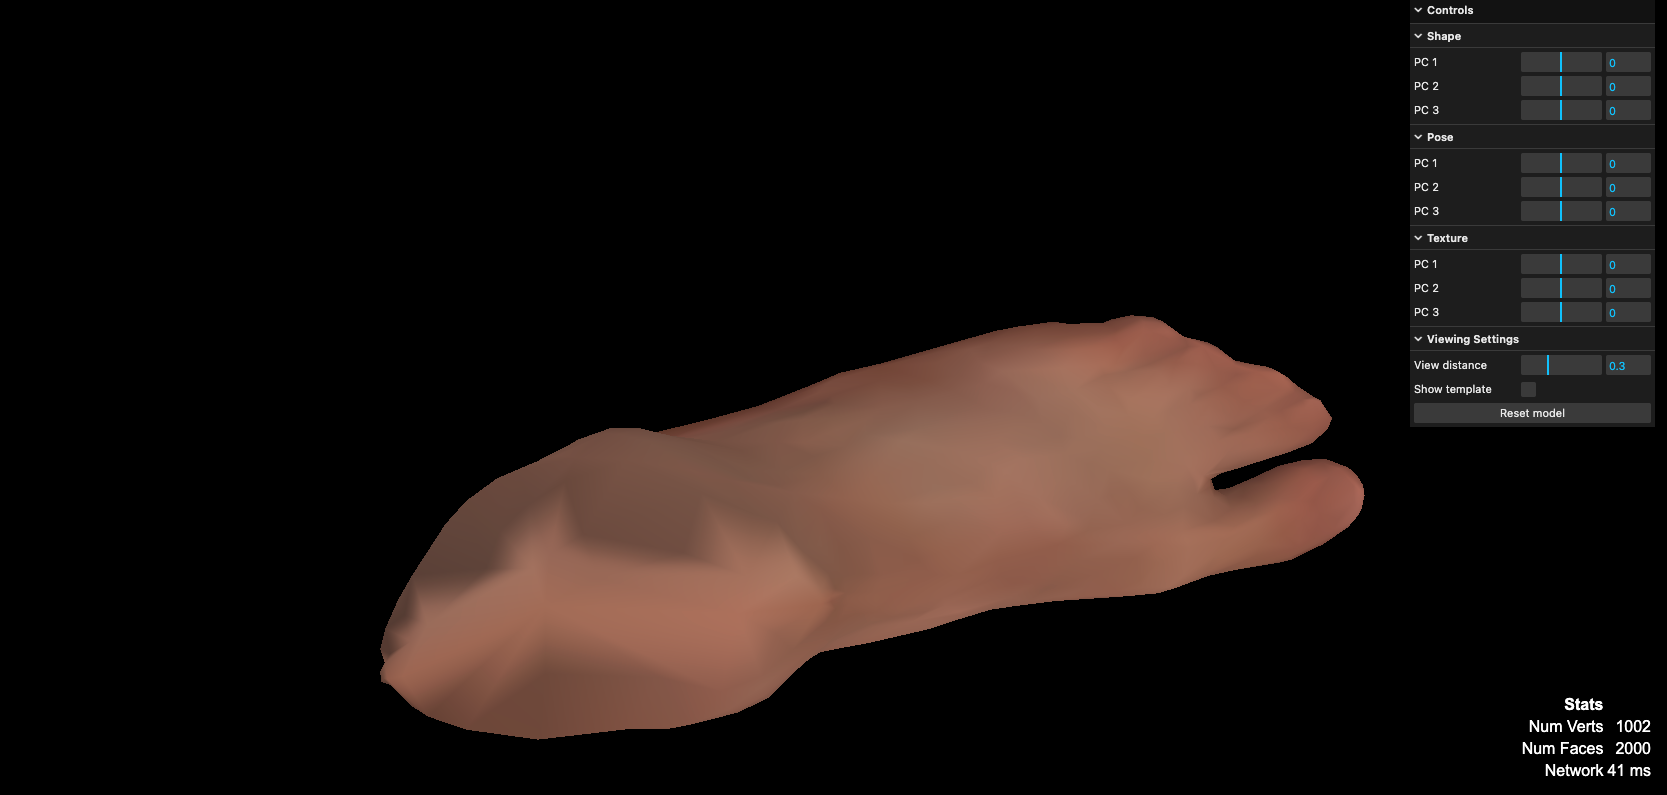
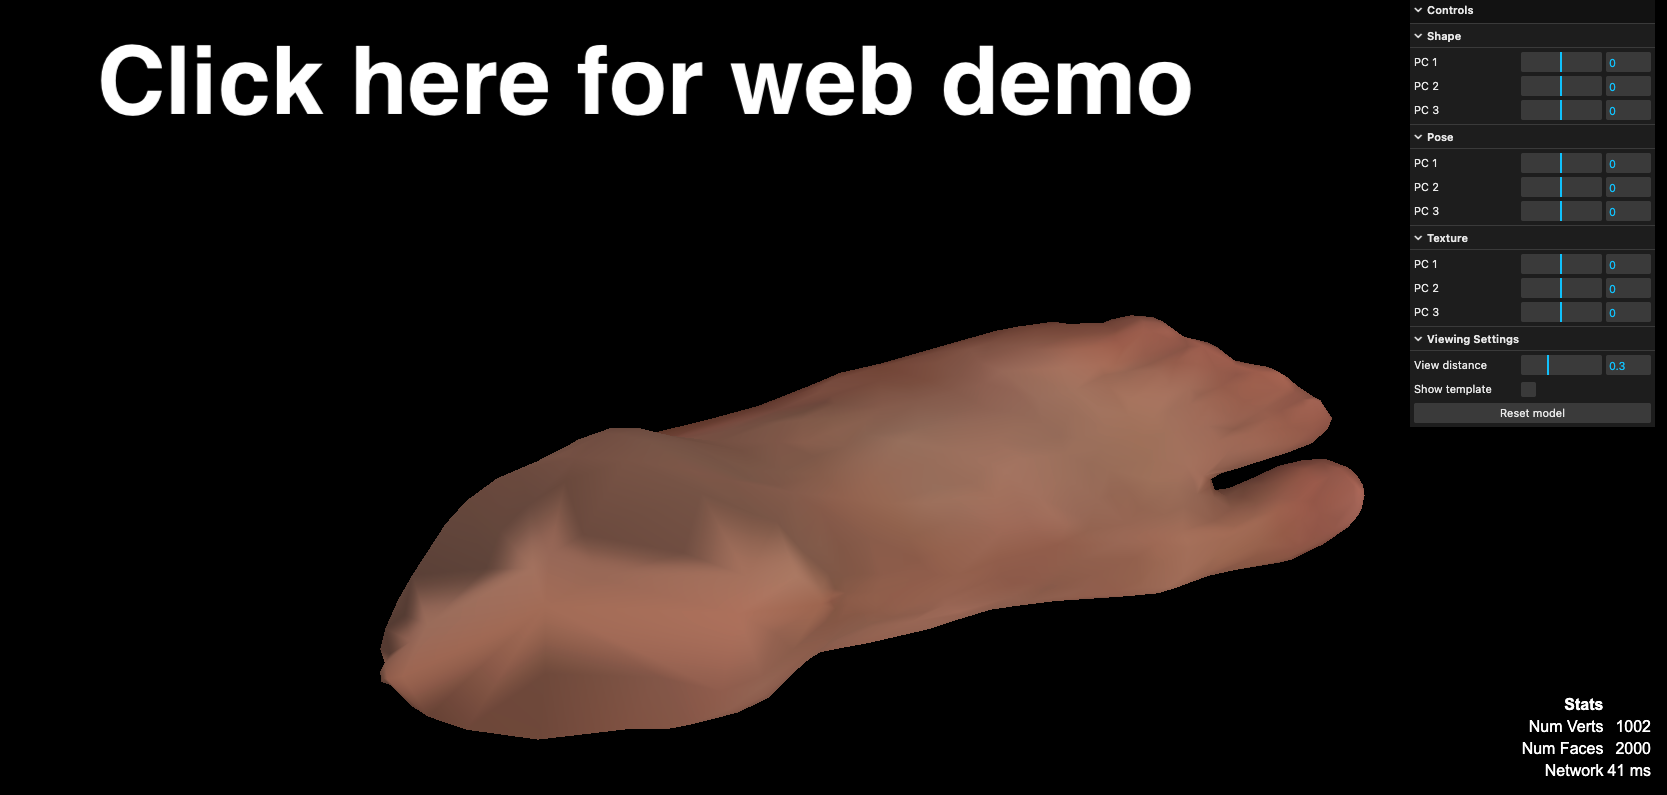
Video tidy up

Changed region(s): [[0.0624, 0.0604, 0.7175, 0.1509]]

diff --git a/docs/index.html b/docs/index.html
@@ -87,15 +87,20 @@
 
 
     <div class="container is-max-desktop has-text-centered mt-5">
-        <a href="https://ollieboyne.github.io/FIND/3d-viewer">
-            <p class="center">Try out the demo here!</p>
-            <img src="image/find/demo-placeholder.png" class="scaled_center_img" style="height: 150px"/>
-        </a>
-    </div>
 
-        <div class="container is-max-desktop has-text-centered mt-5">
-    <iframe width="560" height="315" src="https://www.youtube.com/embed/ehp0z-u7zXg" title="YouTube video player" frameborder="0" allow="accelerometer; autoplay; clipboard-write; encrypted-media; gyroscope; picture-in-picture" allowfullscreen></iframe>
+
+
+        <div style="width:50%;float:left">
+        <a href="https://ollieboyne.github.io/FIND/3d-viewer">
+        <img src="image/find/demo-placeholder.png" style="width:90%"/>
+        </a>
         </div>
+
+
+        <div style="margin-left:50%">
+            <iframe width="90%" height=auto src="https://www.youtube.com/embed/ehp0z-u7zXg" title="YouTube video player" frameborder="0" allow="accelerometer; autoplay; clipboard-write; encrypted-media; gyroscope; picture-in-picture" allowfullscreen></iframe>
+        </div>
+    </div>
 
     </section>
 <!--        </div>-->
